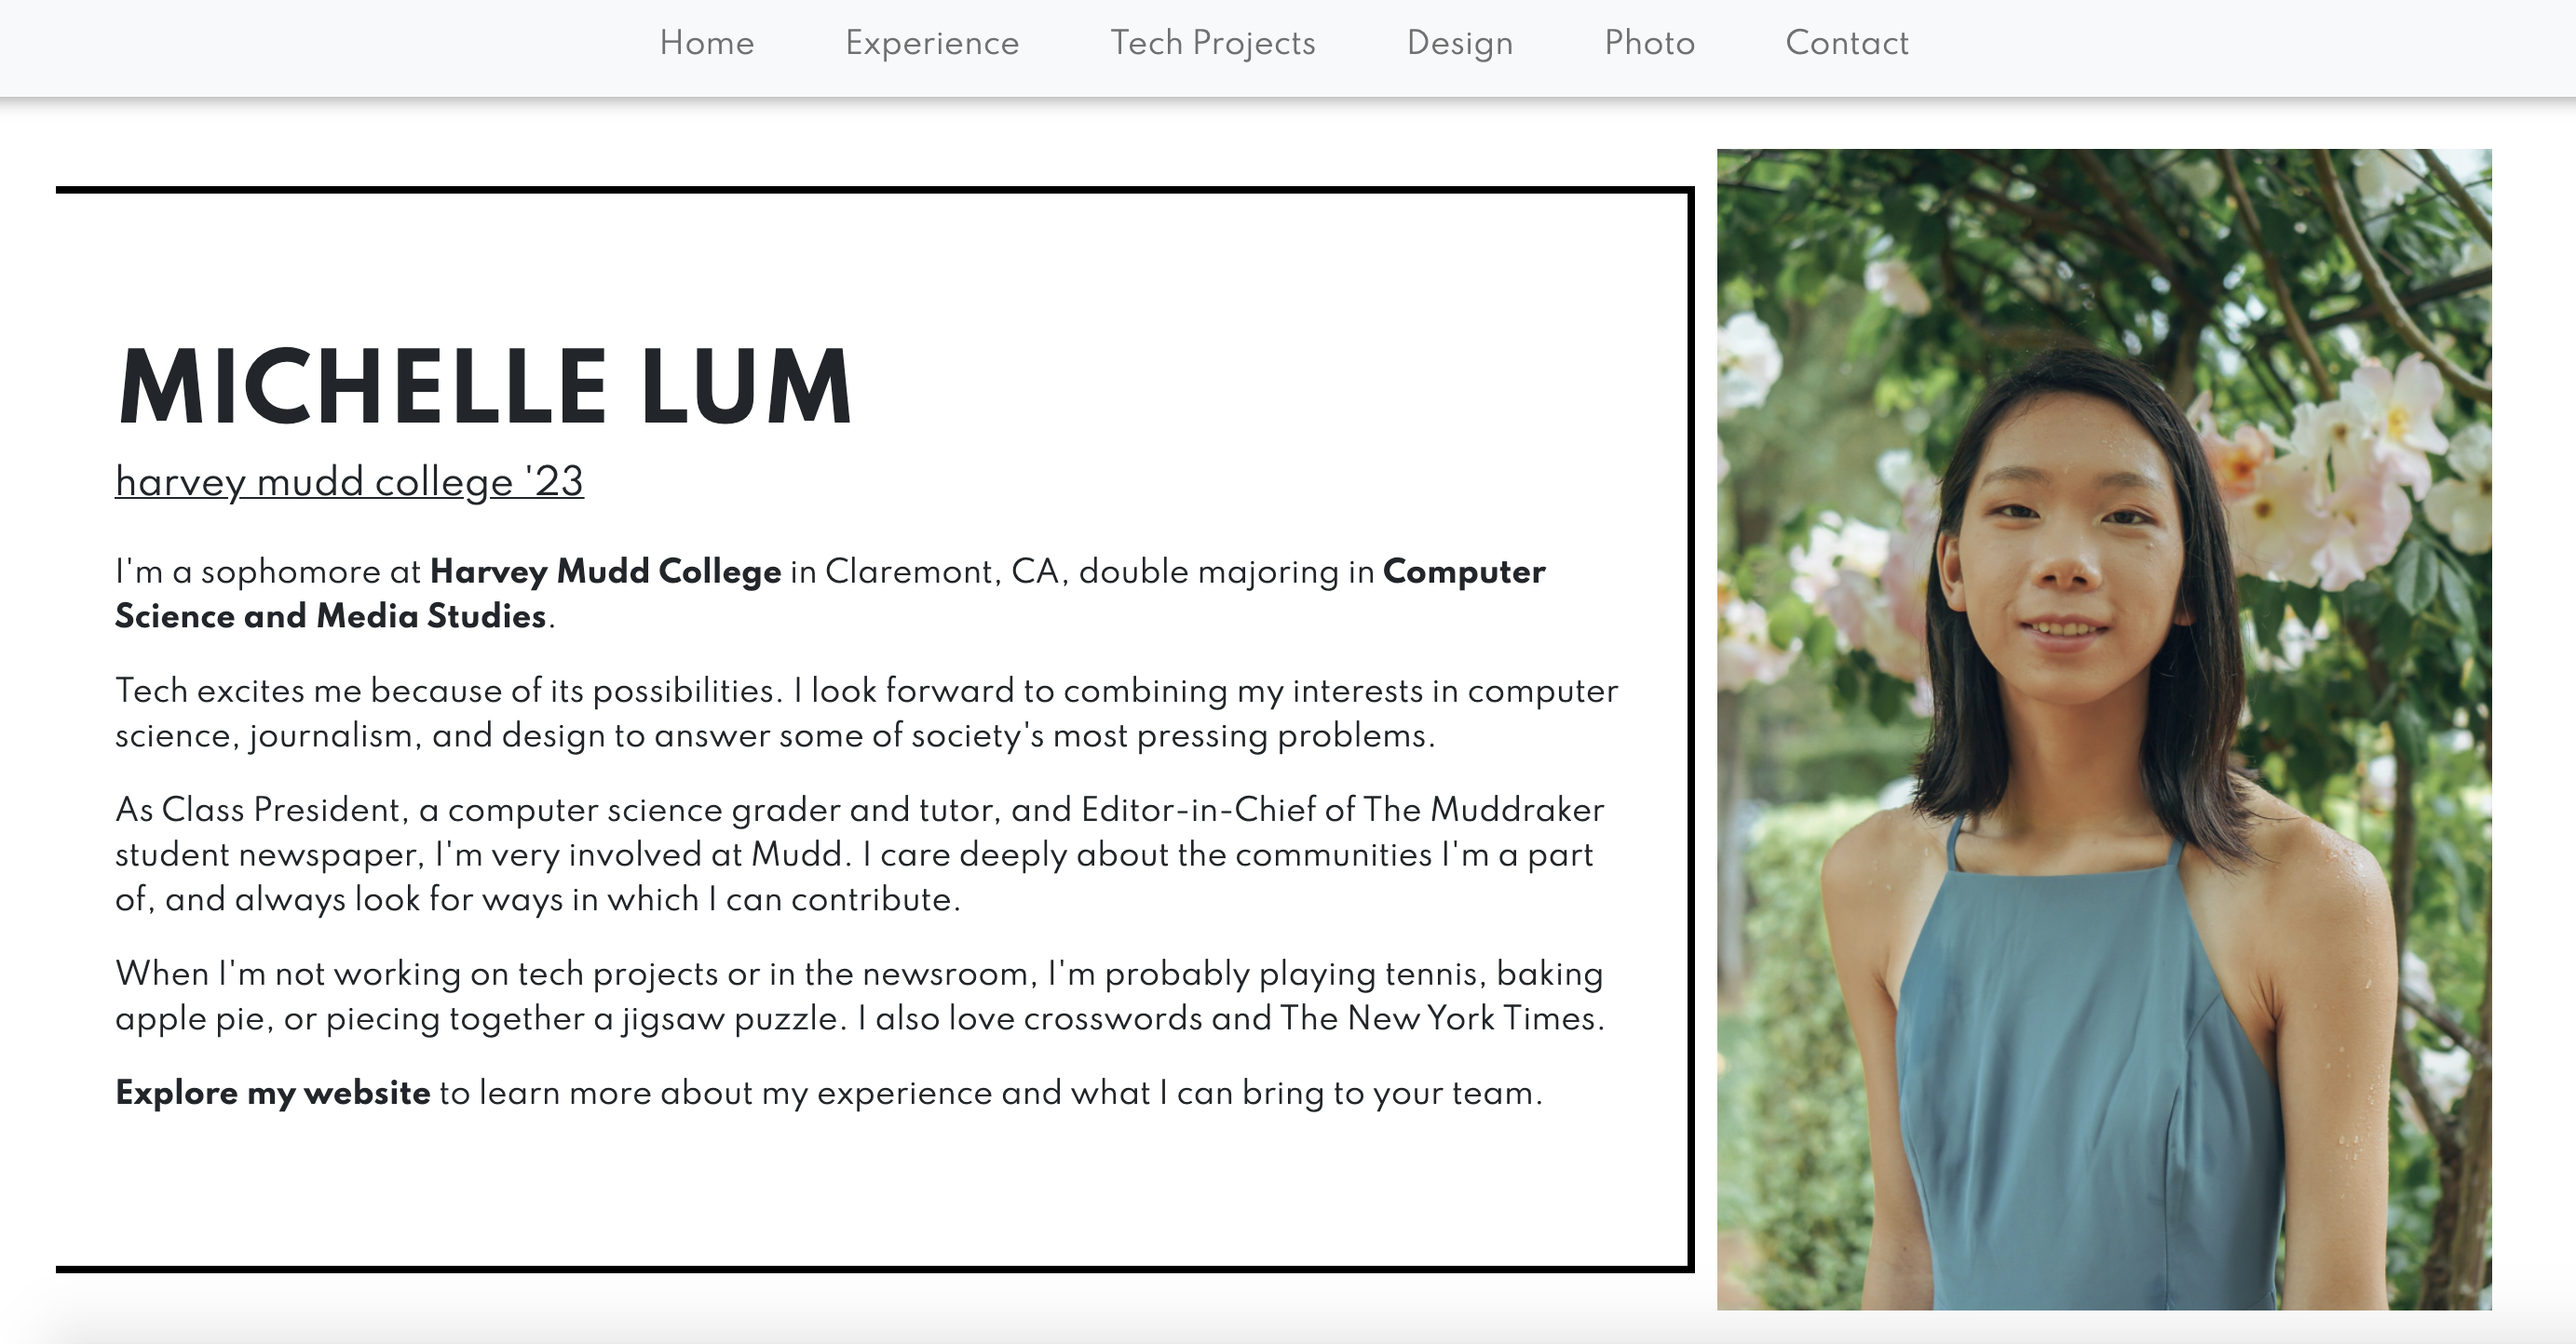
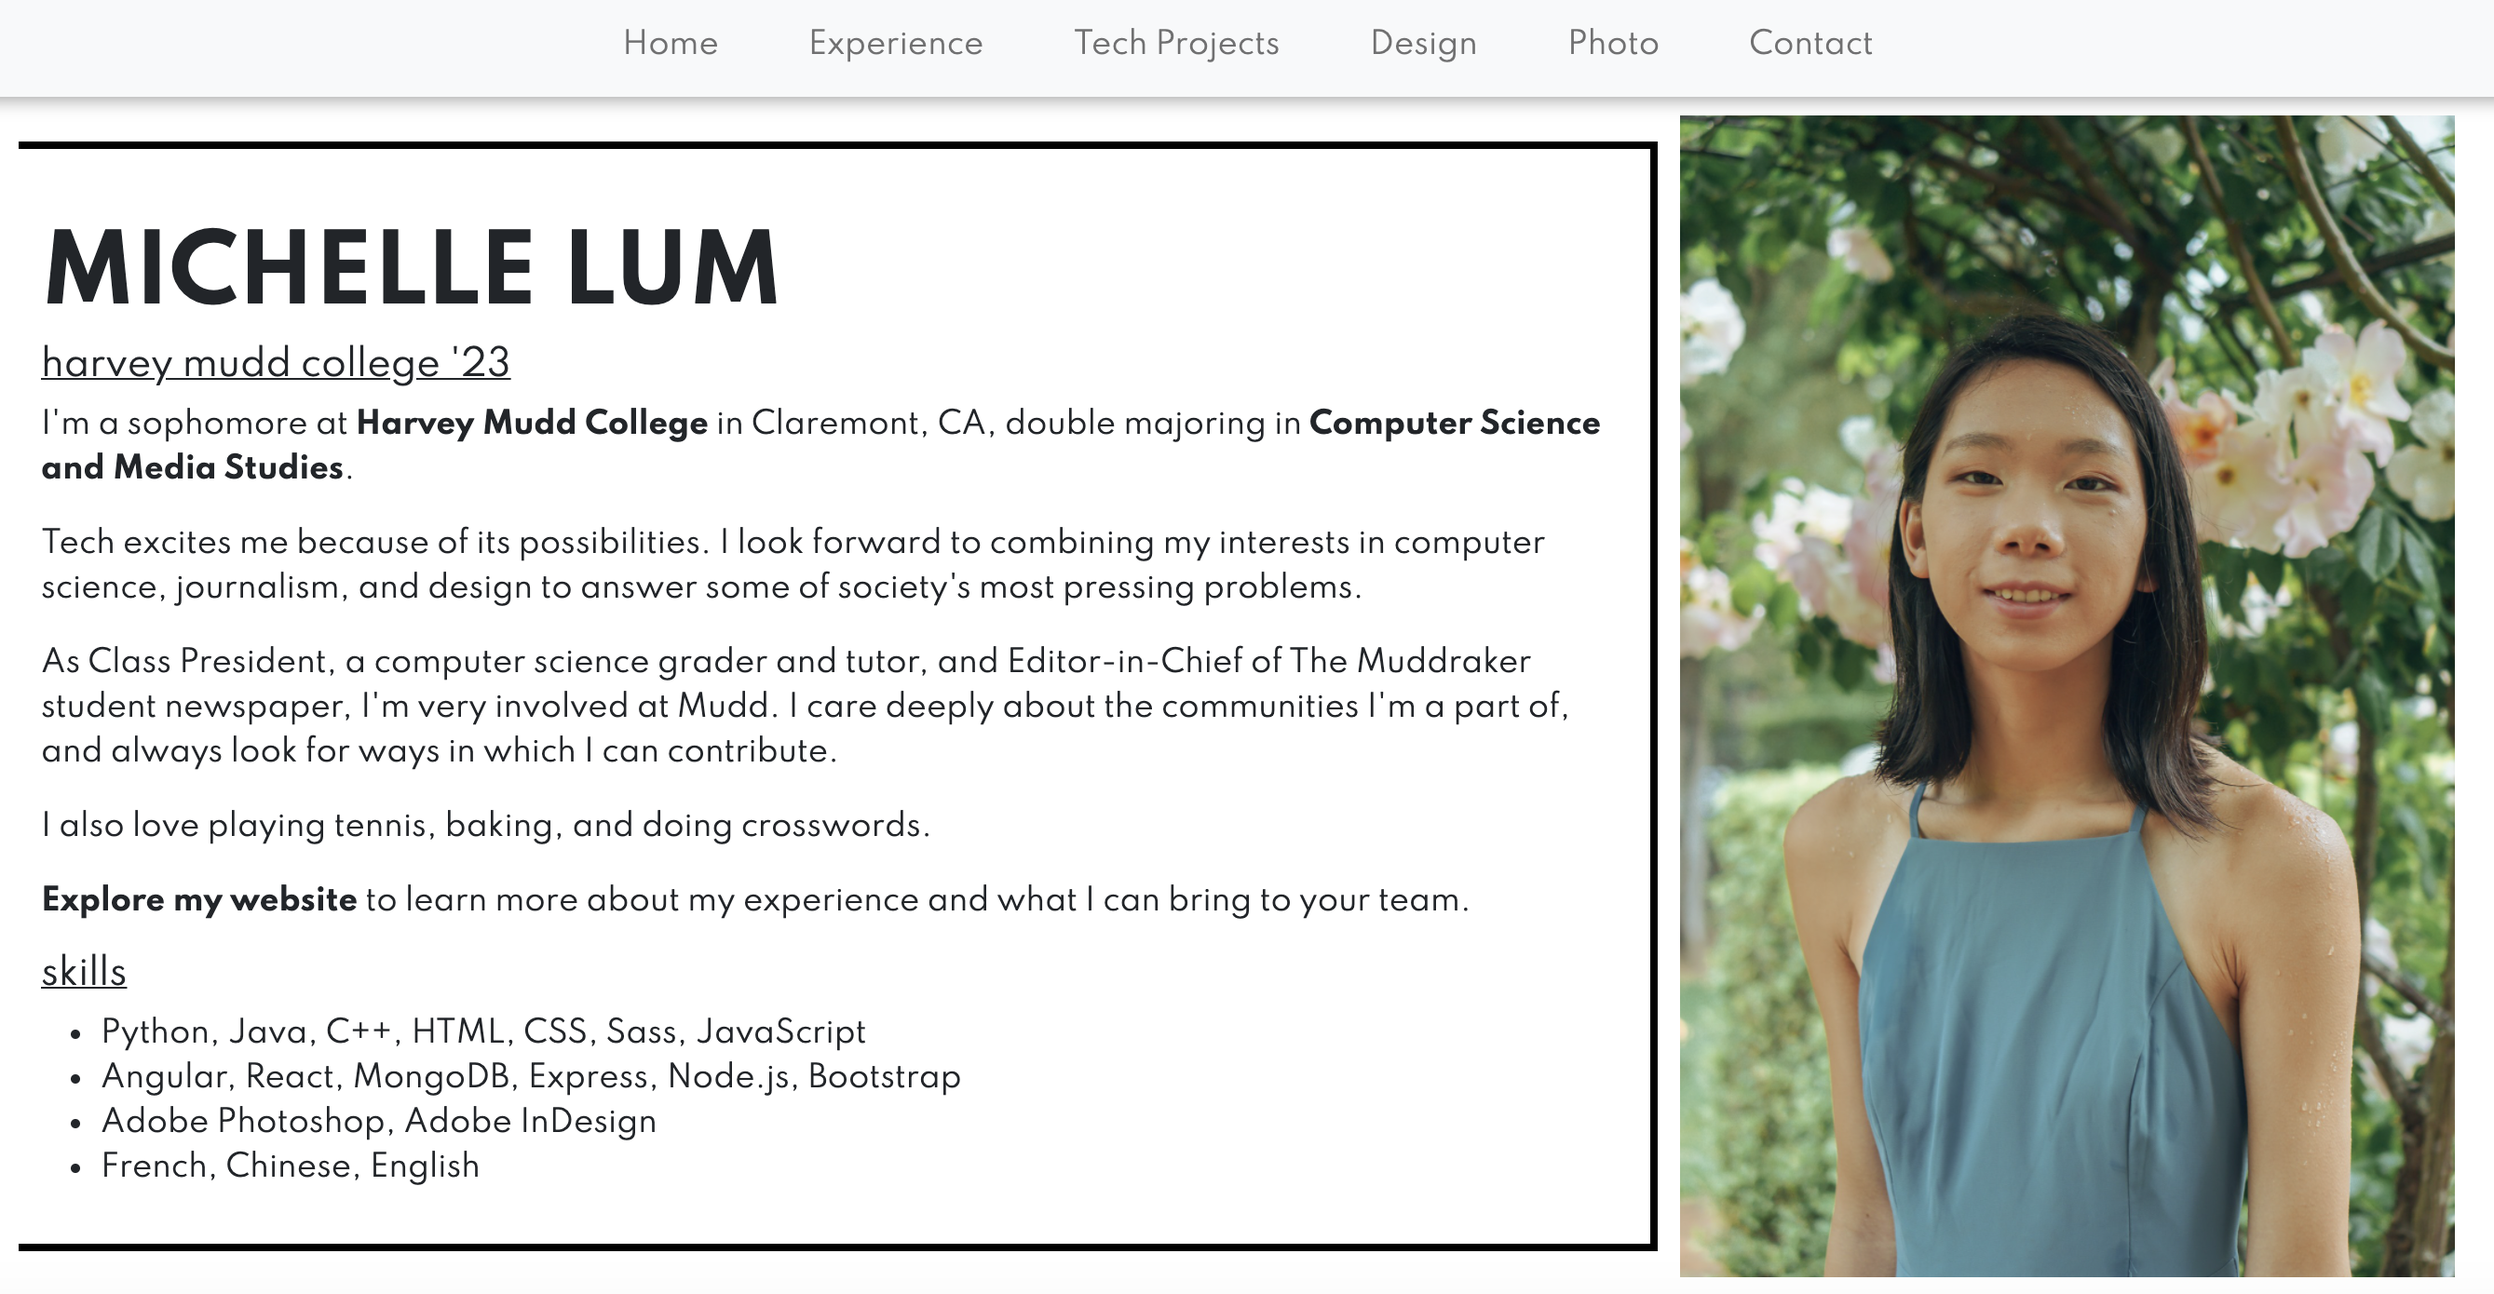
added skills section to home page

diff --git a/index.html b/index.html
@@ -78,7 +78,7 @@
 
     <div class="container">
       <div class="row align-items-center">
-        <section id="about" class="col-12 col-lg-8 my-5">
+        <section id="about" class="col-12 col-lg-8 my-4">
           <header class="mt-2">
             <h1>MICHELLE LUM</h1>
             <h2>harvey mudd college '23</h2>
@@ -100,15 +100,20 @@
               involved at Mudd. I care deeply about the communities I'm a part
               of, and always look for ways in which I can contribute.
             </p>
-            <p>
-              When I'm not working on tech projects or in the newsroom, I'm
-              probably playing tennis, baking apple pie, or piecing together a
-              jigsaw puzzle. I also love crosswords and The New York Times.
-            </p>
+            <p>I also love playing tennis, baking, and doing crosswords.</p>
             <p>
               <strong>Explore my website</strong> to learn more about my
               experience and what I can bring to your team.
             </p>
+          </article>
+          <article id="skills">
+            <h2>skills</h2>
+            <ul>
+              <li>Python, Java, C++, HTML, CSS, Sass, JavaScript</li>
+              <li>Angular, React, MongoDB, Express, Node.js, Bootstrap</li>
+              <li>Adobe Photoshop, Adobe InDesign</li>
+              <li>French, Chinese, English</li>
+            </ul>
           </article>
         </section>
         <div class="col-12 col-lg-4">

diff --git a/styles.css b/styles.css
@@ -66,7 +66,7 @@ h1 {
   font-size: 3rem;
 }
 
-header h2 {
+#about h2 {
   font-size: 1.2rem;
   text-decoration: underline;
 }
@@ -74,7 +74,8 @@ header h2 {
 #about {
   border: 4px black;
   border-style: solid solid solid none;
-  padding: 2rem;
+  padding-top: 2rem;
+  padding-bottom: 0.8rem;
 }
 
 @media only screen and (max-width: 768px) {
@@ -148,7 +149,7 @@ header h2 {
 @media only screen and (max-width: 768px) {
   .modal-img,
   #tech-projects video {
-    max-width: 350px;
+    max-width: 340px;
   }
 }
 
